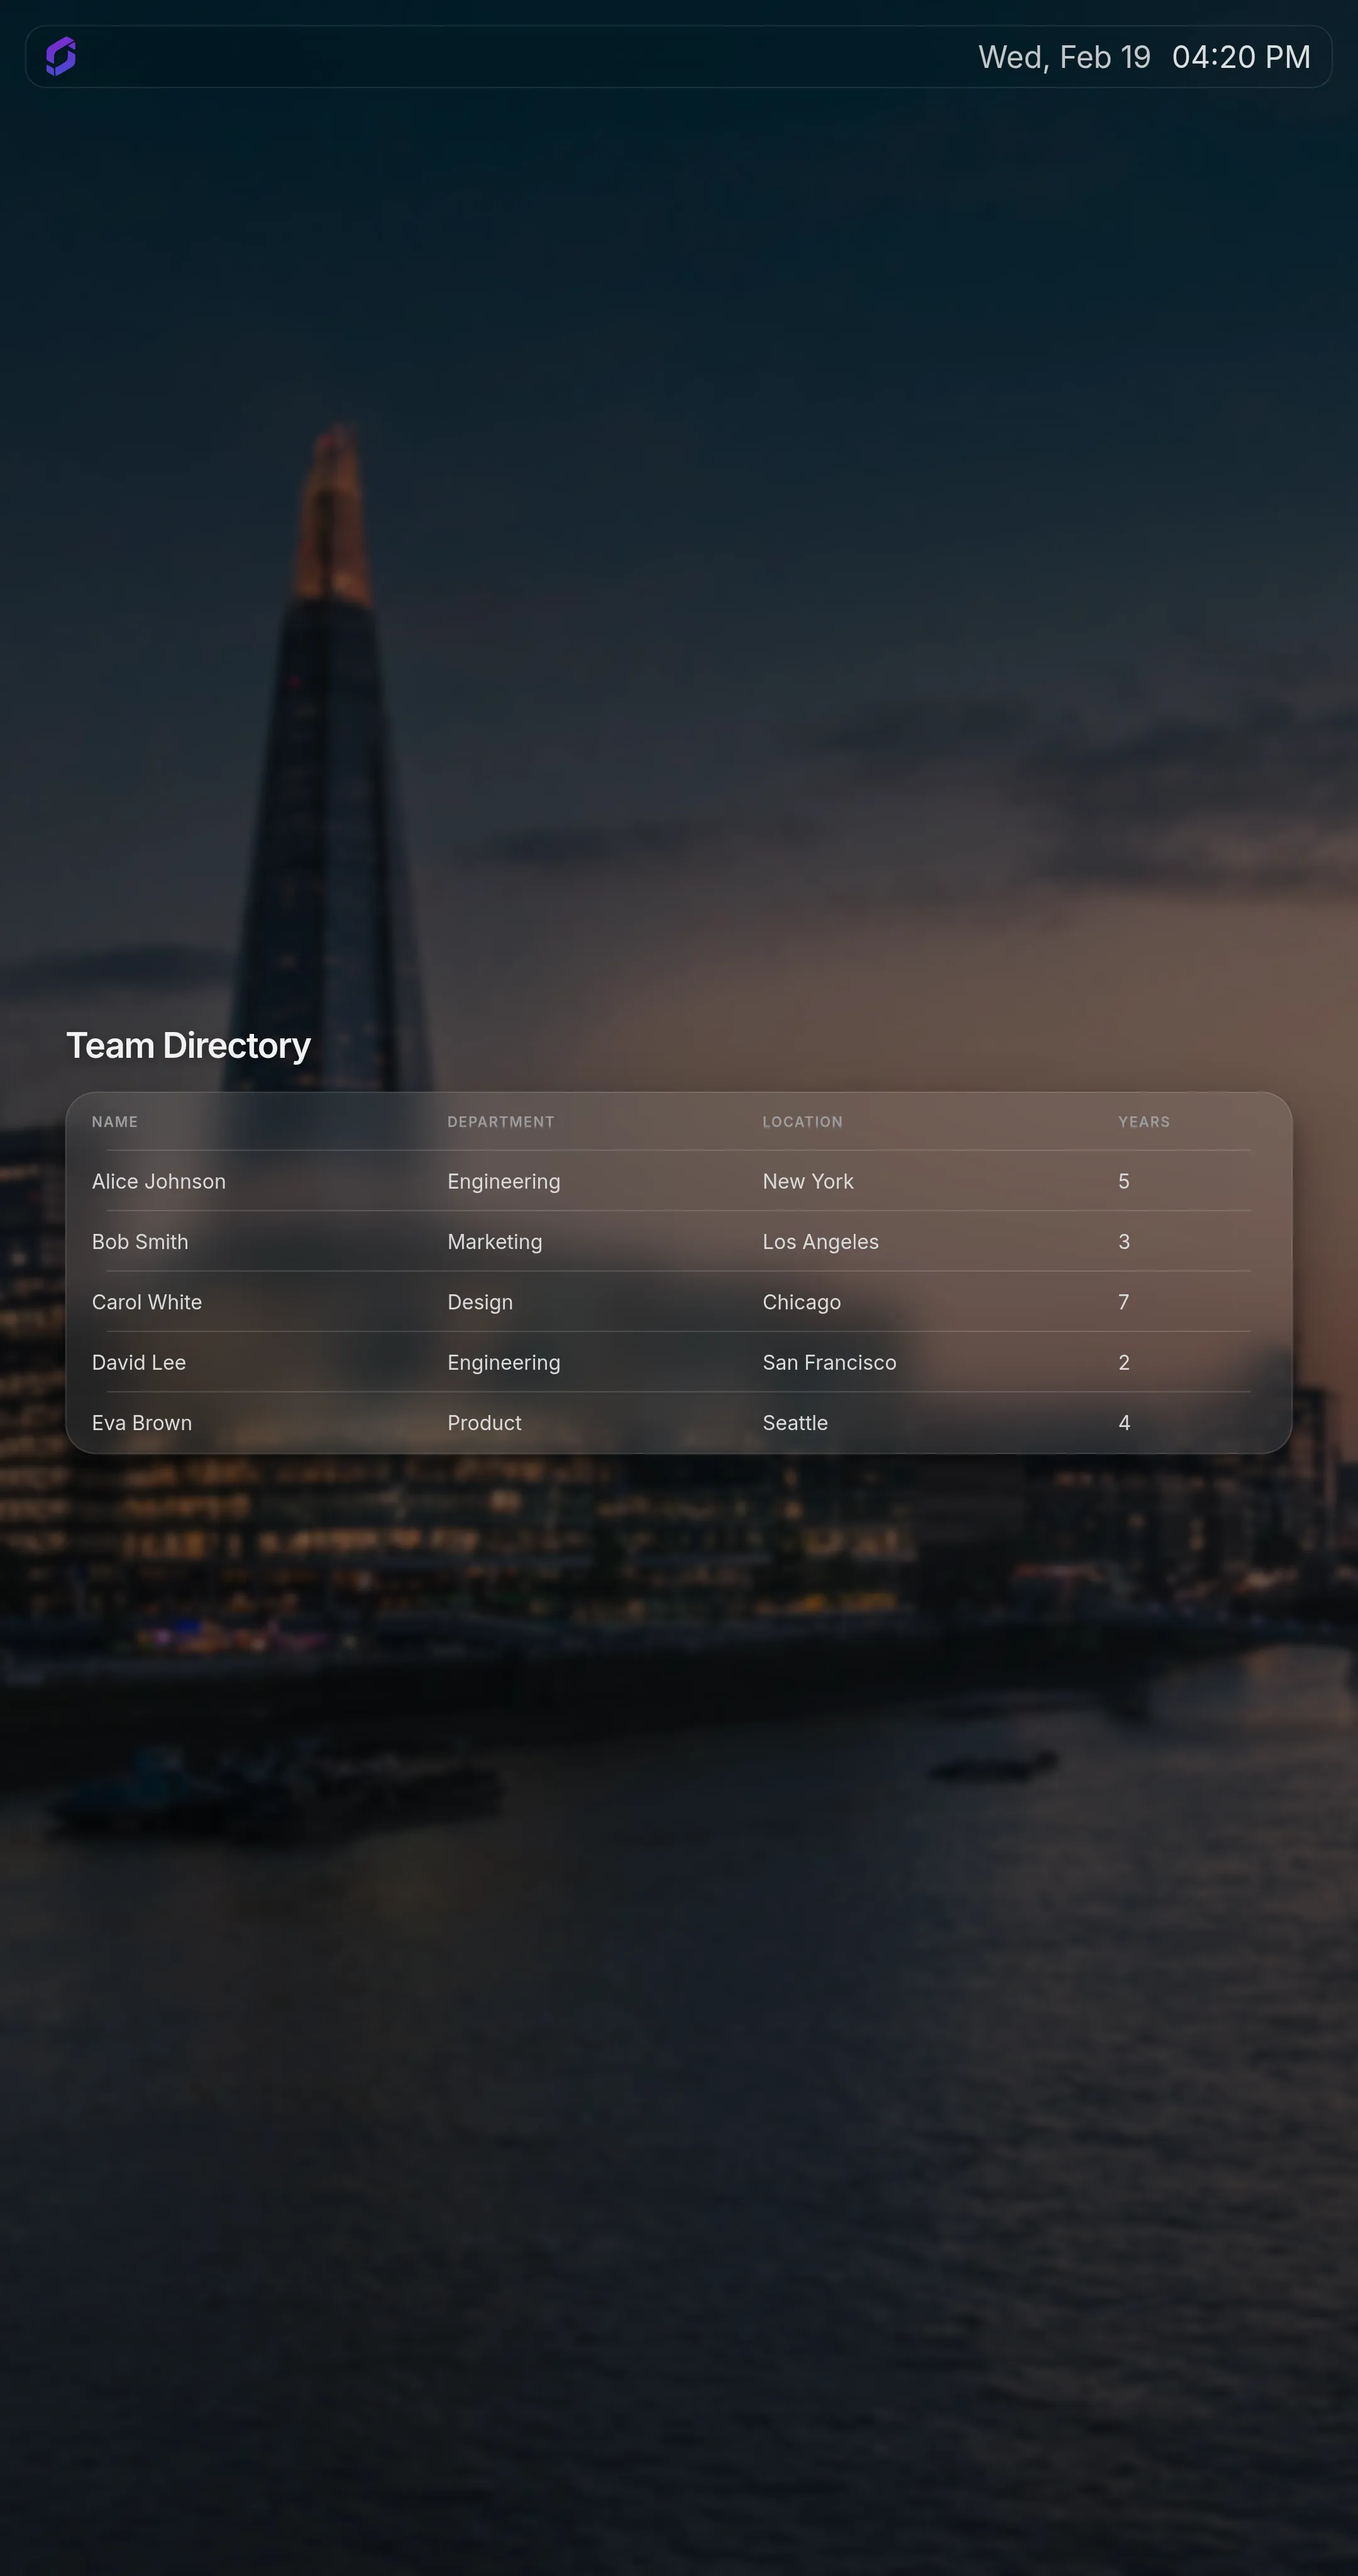
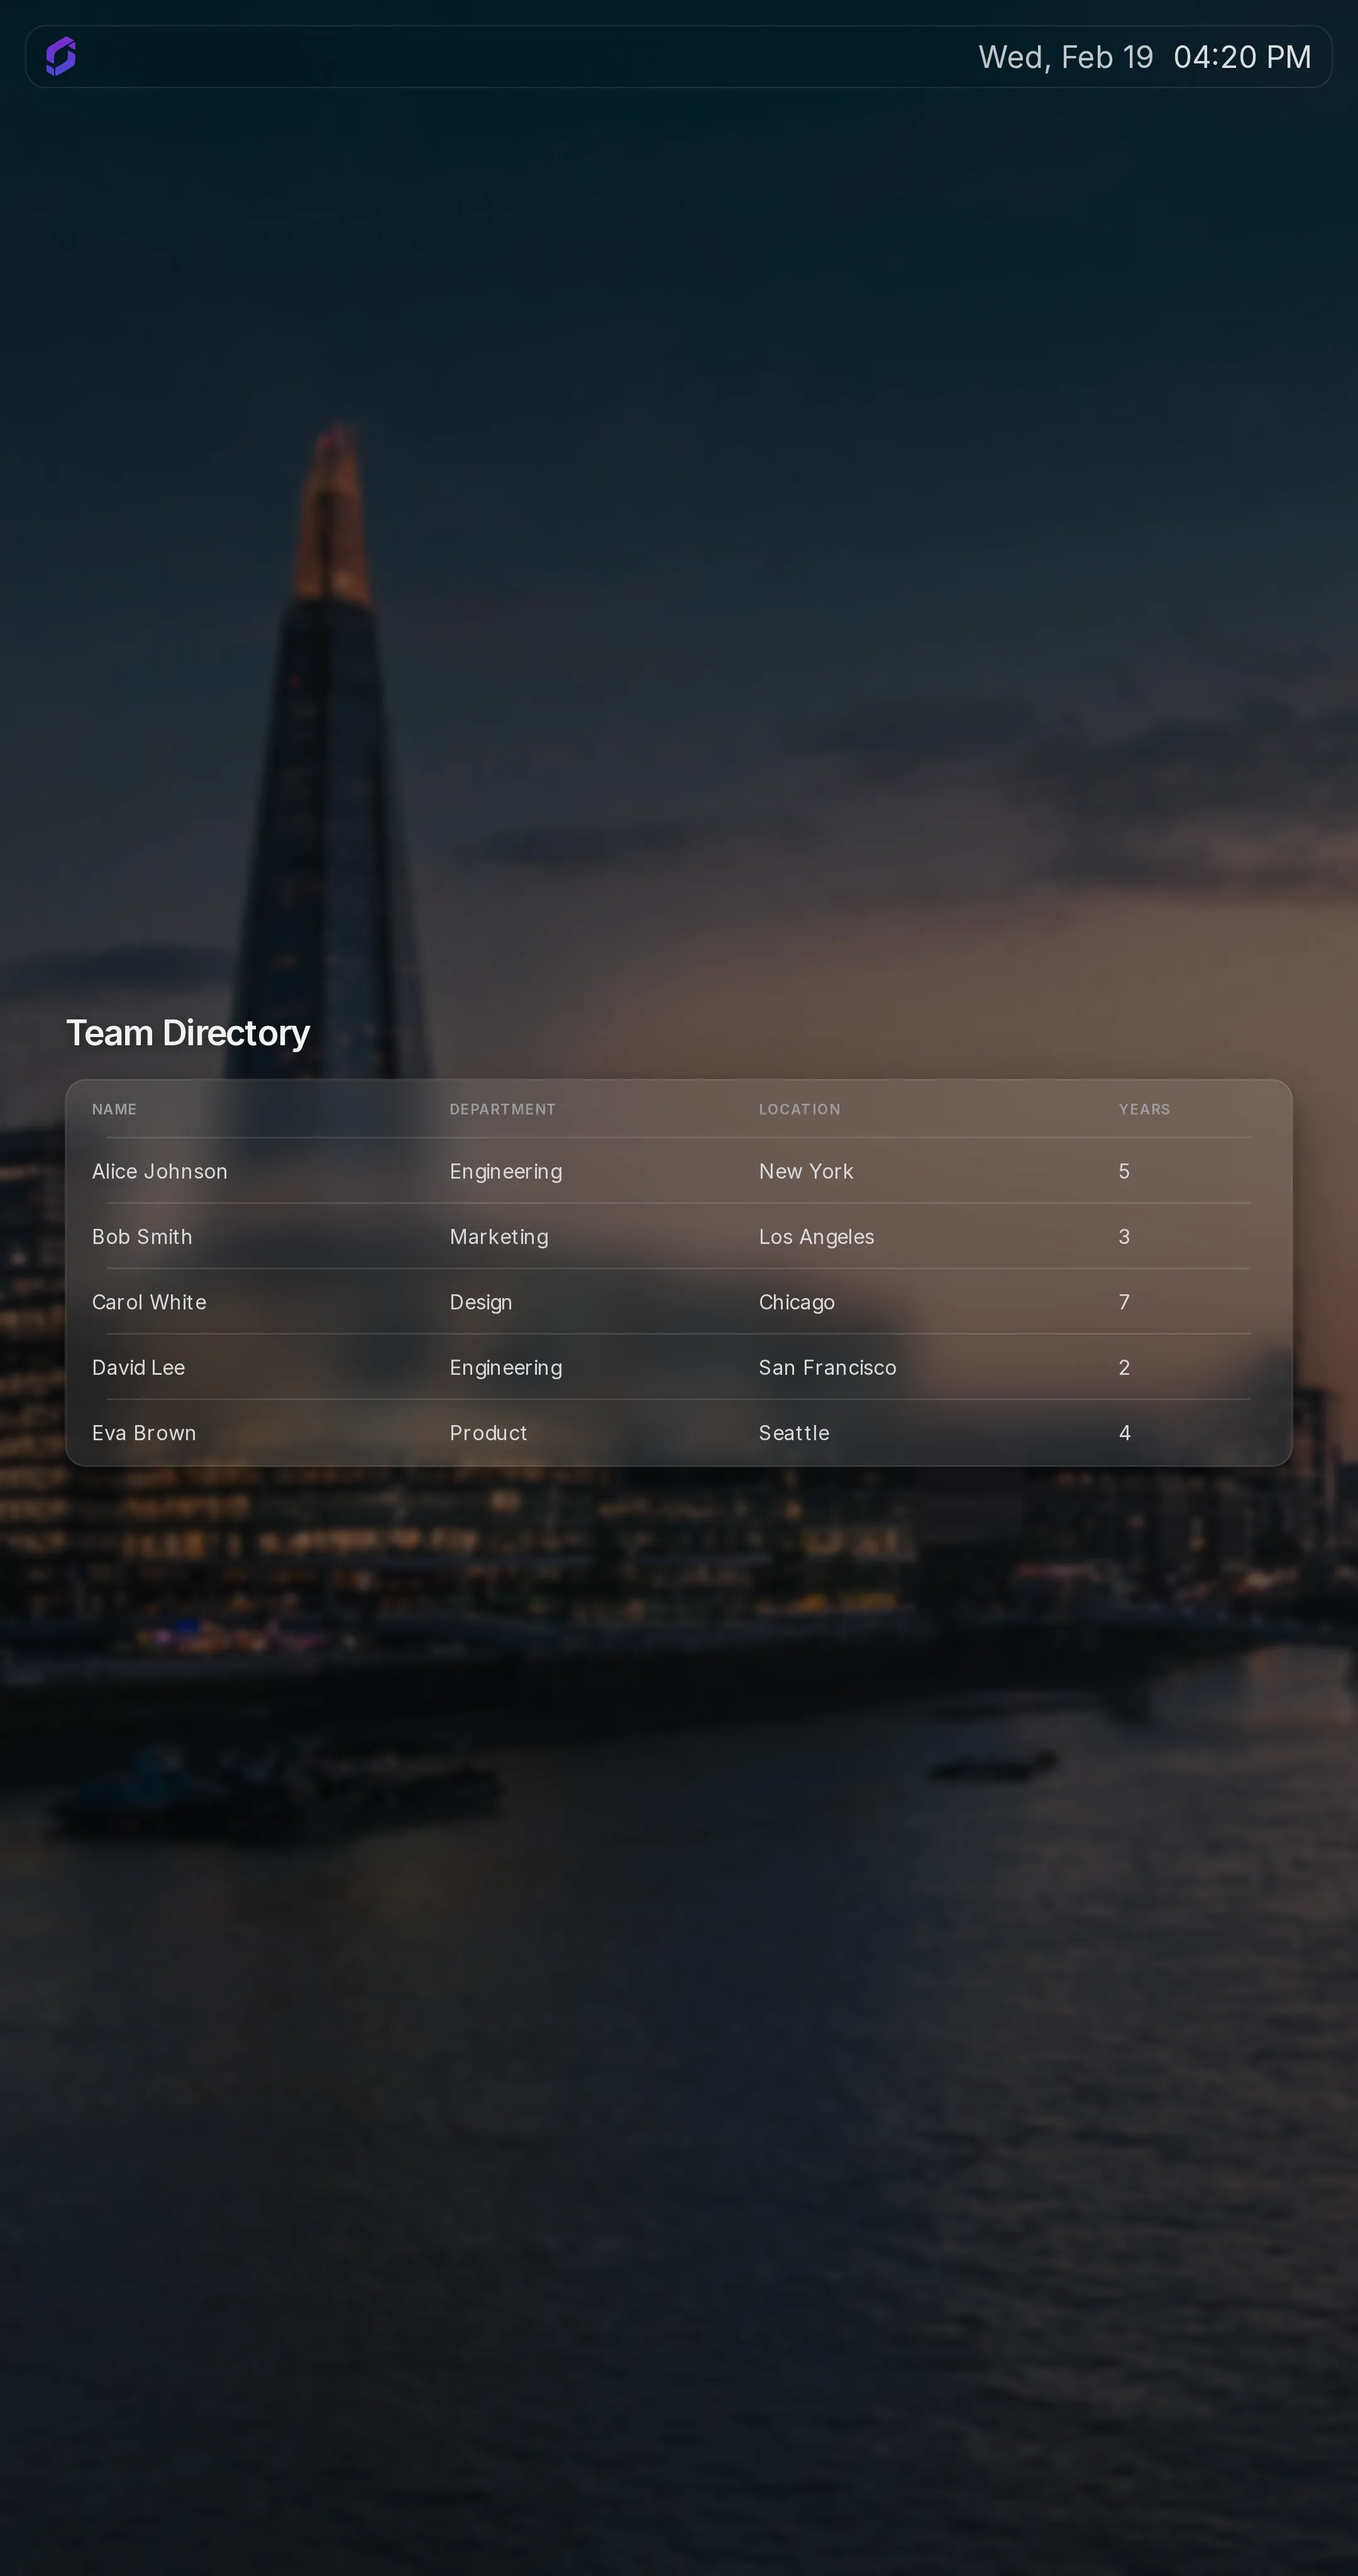
feat: adopt Tailwind CSS utility classes for styling
Rework index.html to use Tailwind utility classes instead of custom CSS
classes, keeping visual appearance and behavior unchanged. Slim the CSS
entry point down to just the design-system import. Bump
@screenly/edge-apps to ^1.3.0 for upcoming Tailwind CSS support.
Regenerate screenshots to reflect the change.

Changed region(s): [[0.062, 0.375, 0.9616, 0.5938], [0.8375, 0.4062, 0.8685, 0.4375], [0.8065, 0.0, 0.8375, 0.0312]]

diff --git a/src/css/style.css b/src/css/style.css
@@ -1,180 +1,10 @@
-@import '@screenly/edge-apps/styles';
+/* Tailwind CSS, skipping Preflight (resets border/margin/padding on every
+   element via a universal selector and breaks custom-element hosts like
+   <app-header>). @screenly/edge-apps/styles goes in the `base` layer so any
+   Tailwind utility classes added later always win the cascade, regardless
+   of selector specificity. */
+@layer theme, base, utilities;
 
-:root {
-  --color-surface-low: #08080d;
-  --color-surface-mid: #050508;
-  --color-surface-high: #030304;
-  --color-text-primary: #f2f2f3;
-  --color-text-secondary: #dadadb;
-  --color-text-muted: #9d9d9f;
-  --color-border-subtle: #212126;
-  --color-border-strong: #494949;
-  --color-accent-default: #0066ff;
-  --color-info: #00a8ff;
-}
-
-* {
-  box-sizing: border-box;
-}
-
-body {
-  margin: 0;
-  padding: 0;
-  overflow: hidden;
-  color: var(--color-text-primary);
-  font-family: 'Inter', system-ui, sans-serif;
-  background: url('/static/images/bg.webp') no-repeat center center;
-  background-size: cover;
-  background-color: var(--color-surface-low);
-}
-
-body::before {
-  content: '';
-  position: fixed;
-  inset: 0;
-  z-index: var(--z-index-backdrop);
-  pointer-events: none;
-  background: rgba(0, 0, 0, 0.45);
-  backdrop-filter: blur(7px);
-}
-
-auto-scaler {
-  position: relative;
-  z-index: var(--z-index-content);
-}
-
-#app {
-  width: 100%;
-  height: 100%;
-  display: flex;
-  flex-direction: column;
-}
-
-.header {
-  flex-shrink: 0;
-}
-
-.content {
-  flex: 1;
-  display: flex;
-  justify-content: center;
-  align-items: center;
-  padding: 2rem 3rem;
-  min-height: 0;
-}
-
-#table-wrapper {
-  width: 100%;
-  max-width: 100rem;
-  display: flex;
-  flex-direction: column;
-  gap: 1.25rem;
-}
-
-#table-title {
-  font-size: 2rem;
-  font-weight: 600;
-  color: var(--color-text-primary);
-  margin: 0;
-  letter-spacing: -0.03em;
-  text-shadow: 0 0.125rem 0.5rem rgba(0, 0, 0, 0.4);
-}
-
-.table-card {
-  background: rgba(255, 255, 255, 0.08);
-  border: 1px solid rgba(255, 255, 255, 0.12);
-  border-radius: 1.5rem;
-  overflow: hidden;
-  backdrop-filter: blur(20px);
-  box-shadow:
-    0 1.25rem 3rem rgba(0, 0, 0, 0.4),
-    0 0.5rem 1rem rgba(0, 0, 0, 0.2);
-}
-
-#data-table {
-  width: 100%;
-  border-collapse: collapse;
-}
-
-#data-table thead tr {
-  background-image: linear-gradient(
-    rgba(255, 255, 255, 0.15),
-    rgba(255, 255, 255, 0.15)
-  );
-  background-size: calc(100% - 4rem) 1px;
-  background-position: center bottom;
-  background-repeat: no-repeat;
-}
-
-#data-table th {
-  padding: 1.25rem 2rem;
-  text-align: left;
-  font-size: 0.75rem;
-  font-weight: 600;
-  letter-spacing: 0.08em;
-  text-transform: uppercase;
-  color: var(--color-text-muted);
-  white-space: nowrap;
-}
-
-#data-table td {
-  padding: 1.125rem 2rem;
-  font-size: 1.125rem;
-  font-weight: 400;
-  color: var(--color-text-secondary);
-  white-space: nowrap;
-}
-
-#data-table tbody tr {
-  background-image: linear-gradient(
-    rgba(255, 255, 255, 0.15),
-    rgba(255, 255, 255, 0.15)
-  );
-  background-size: calc(100% - 4rem) 1px;
-  background-position: center bottom;
-  background-repeat: no-repeat;
-}
-
-#data-table tbody tr:last-child {
-  background-image: none;
-}
-
-@media (orientation: portrait) {
-  .content {
-    padding: 1.5rem 2rem;
-    align-items: center;
-  }
-
-  #table-wrapper {
-    max-width: 100%;
-  }
-
-  #table-title {
-    font-size: 1.75rem;
-  }
-
-  #data-table th {
-    padding: 1rem 1.25rem;
-    font-size: 0.7rem;
-  }
-
-  #data-table td {
-    padding: 0.875rem 1.25rem;
-    font-size: 1rem;
-  }
-}
-
-@media screen and (max-width: 1280px) and (orientation: landscape) {
-  .content {
-    padding: 1.5rem 2rem;
-  }
-
-  #data-table th {
-    padding: 1rem 1.5rem;
-  }
-
-  #data-table td {
-    padding: 0.875rem 1.5rem;
-    font-size: 1rem;
-  }
-}
+@import 'tailwindcss/theme.css' layer(theme);
+@import '@screenly/edge-apps/styles' layer(base);
+@import 'tailwindcss/utilities.css' layer(utilities);

diff --git a/index.html b/index.html
@@ -6,19 +6,33 @@
     <title>Simple Table</title>
     <script src="screenly.js?version=1"></script>
   </head>
-  <body>
+  <body
+    class="text-[#f2f2f3] bg-[url('/static/images/bg.webp')] bg-no-repeat bg-center bg-cover bg-[#08080d] before:content-[''] before:fixed before:inset-0 before:z-[var(--z-index-backdrop)] before:pointer-events-none before:bg-black/45 before:backdrop-blur-[7px]"
+  >
     <auto-scaler
       reference-width="1920"
       reference-height="1080"
       orientation="auto"
+      class="relative z-[var(--z-index-content)]"
     >
-      <div id="app">
-        <app-header class="header" show-date></app-header>
-        <main class="content">
-          <div id="table-wrapper">
-            <h2 id="table-title" hidden></h2>
-            <div class="table-card">
-              <table id="data-table">
+      <div id="app" class="w-full h-full flex flex-col">
+        <app-header class="header shrink-0" show-date></app-header>
+        <main
+          class="flex-1 flex justify-center items-center px-12 py-8 min-h-0 portrait:px-8 portrait:py-6 [@media_(max-width:1280px)_and_(orientation:landscape)]:px-8 [@media_(max-width:1280px)_and_(orientation:landscape)]:py-6"
+        >
+          <div
+            id="table-wrapper"
+            class="w-full max-w-[100rem] flex flex-col gap-5 portrait:max-w-full"
+          >
+            <h2
+              id="table-title"
+              hidden
+              class="text-[2rem] font-semibold text-[#f2f2f3] m-0 tracking-[-0.03em] text-shadow-[0_0.125rem_0.5rem_rgba(0,0,0,0.4)] portrait:text-[1.75rem]"
+            ></h2>
+            <div
+              class="table-card rounded-2xl overflow-hidden bg-white/[0.08] border border-white/[0.12] backdrop-blur-[20px] shadow-[0_1.25rem_3rem_rgba(0,0,0,0.4),0_0.5rem_1rem_rgba(0,0,0,0.2)]"
+            >
+              <table id="data-table" class="w-full border-collapse">
                 <thead id="table-head"></thead>
                 <tbody id="table-body"></tbody>
               </table>

diff --git a/src/app.ts b/src/app.ts
@@ -5,6 +5,12 @@ import {
 } from '@screenly/edge-apps'
 import Papa from 'papaparse'
 
+const ROW_DIVIDER_CLASSES =
+  'bg-[linear-gradient(rgba(255,255,255,0.15),rgba(255,255,255,0.15))] [background-size:calc(100%-4rem)_1px] bg-bottom bg-no-repeat'
+
+const CELL_PADDING_CLASSES =
+  'whitespace-nowrap portrait:px-5 [@media_(max-width:1280px)_and_(orientation:landscape)]:px-6'
+
 export function parseCSV(csv: string): string[][] {
   const result = Papa.parse<string[]>(csv.trim(), {
     skipEmptyLines: true,
@@ -34,8 +40,10 @@ export function renderTable(csv: string): void {
   const [headers, ...dataRows] = rows
 
   const headerRow = document.createElement('tr')
+  headerRow.className = ROW_DIVIDER_CLASSES
   headers.forEach((header) => {
     const th = document.createElement('th')
+    th.className = `px-8 py-5 text-left text-xs font-semibold tracking-[0.08em] uppercase text-[#9d9d9f] ${CELL_PADDING_CLASSES} portrait:py-4 portrait:text-[0.7rem] [@media_(max-width:1280px)_and_(orientation:landscape)]:py-4`
     th.textContent = header
     headerRow.appendChild(th)
   })
@@ -43,8 +51,10 @@ export function renderTable(csv: string): void {
 
   dataRows.forEach((row) => {
     const tr = document.createElement('tr')
+    tr.className = `${ROW_DIVIDER_CLASSES} last:bg-none`
     row.forEach((cell) => {
       const td = document.createElement('td')
+      td.className = `px-8 py-[1.125rem] text-lg font-normal text-[#dadadb] ${CELL_PADDING_CLASSES} portrait:py-[0.875rem] portrait:text-base [@media_(max-width:1280px)_and_(orientation:landscape)]:py-[0.875rem] [@media_(max-width:1280px)_and_(orientation:landscape)]:text-base`
       td.textContent = cell
       tr.appendChild(td)
     })
